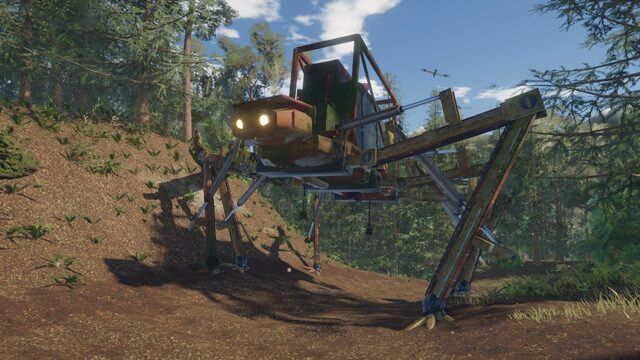
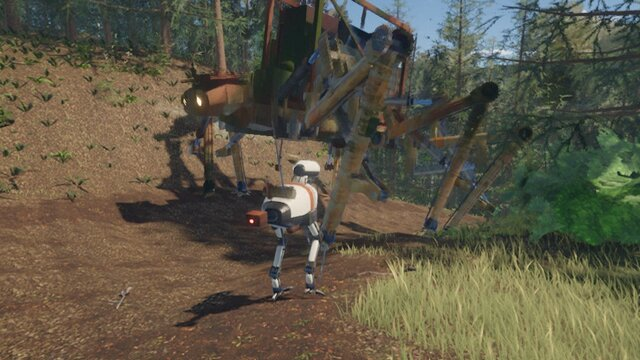
machine-wilds: samples from the film — the turtle, the carrier and the kite shot in their new look, the far relic at dawn, the crane in the rain; 28 shots
Claude-Session: https://claude.ai/code/session_01LWivNf8Y6UtuVJbT9XD7sv

diff --git a/machine-wilds/examples/iron-valley/BRIEF.md b/machine-wilds/examples/iron-valley/BRIEF.md
@@ -118,13 +118,13 @@ not cast (their light passes through trunks); a noon picture shows the engine's 
 on a real GPU has not been measured from this machine.
 
 ## The film
-`src/82_trailer.js` (played by `lib/89_cine.js`): a day in the valley in 26 shots, about two and three quarter minutes. It plays in
+`src/82_trailer.js` (played by `lib/89_cine.js`): a day in the valley in 28 shots, about two and three quarter minutes. It plays in
 the page itself — `index.html?film=1` (Esc hands the walker the world; a title card at the end) — and `trailer.mjs` steps the same
 shots to draw an MP4 (`--dry`, `--keys`, a render, `--sound`, `--join`; `--q "tierx=shadow:1024"` halves a frame without a GPU).
 Dawn: time passes over the forest while the relic walks the far rim · a morning of haze: the walker in the page's three views,
-behind a kite over the viaduct · noon: the lookout, the fallen crane, the turtle, the woodlice, the carriers kneeling and going
-on · rain: a crane comes through the viaduct's gap and lifts its head, the walker leaps the barrier and drops to the floor ·
-snow at the hall's fire · evening haze: the turtle at the tarn, the relic coming on, in under it and between its legs · dusk
-mist: the crayfish goes by, and rears · night: a crane behind the fire, the relic's lit windows passing at the way in, the kites
-over the viaduct · a title card. Every machine in the cut is walking, flying or doing its big move; sound from their footfalls
+behind a kite over the viaduct · noon: rising over the lookout, the fallen crane, beside the turtle and the turtle wading the
+brook, the woodlice, the carriers kneeling and going on · rain: a crane comes through the viaduct's gap and lifts its head, the
+walker leaps the barrier and drops to the floor, the old road through its eyes · snow at the hall's fire · evening: the turtle
+at the tarn, haze and the relic coming on, in under it and between its legs · dusk mist: a crane on the floor, the crayfish
+going by, and rearing · night: the relic coming over on the rim way, the kites over the viaduct · a title card. Every machine in the cut is walking, flying or doing its big move; sound from their footfalls
 and calls, heard from the camera.
